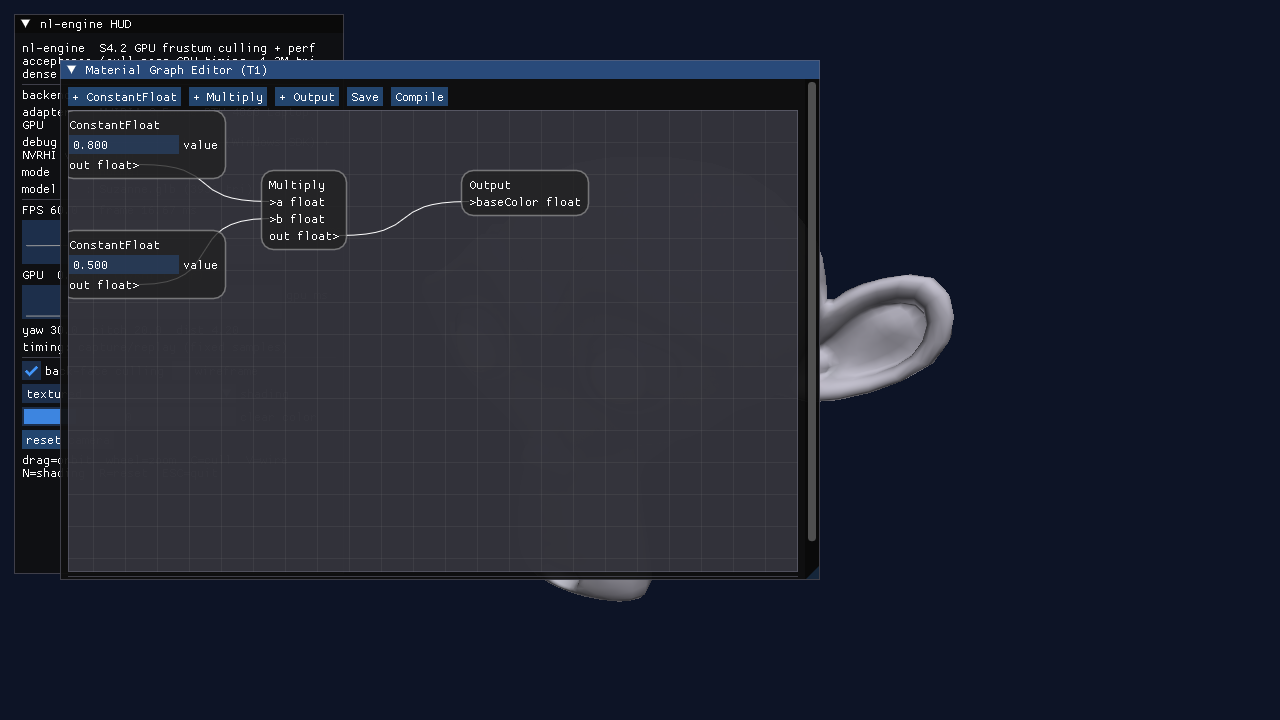
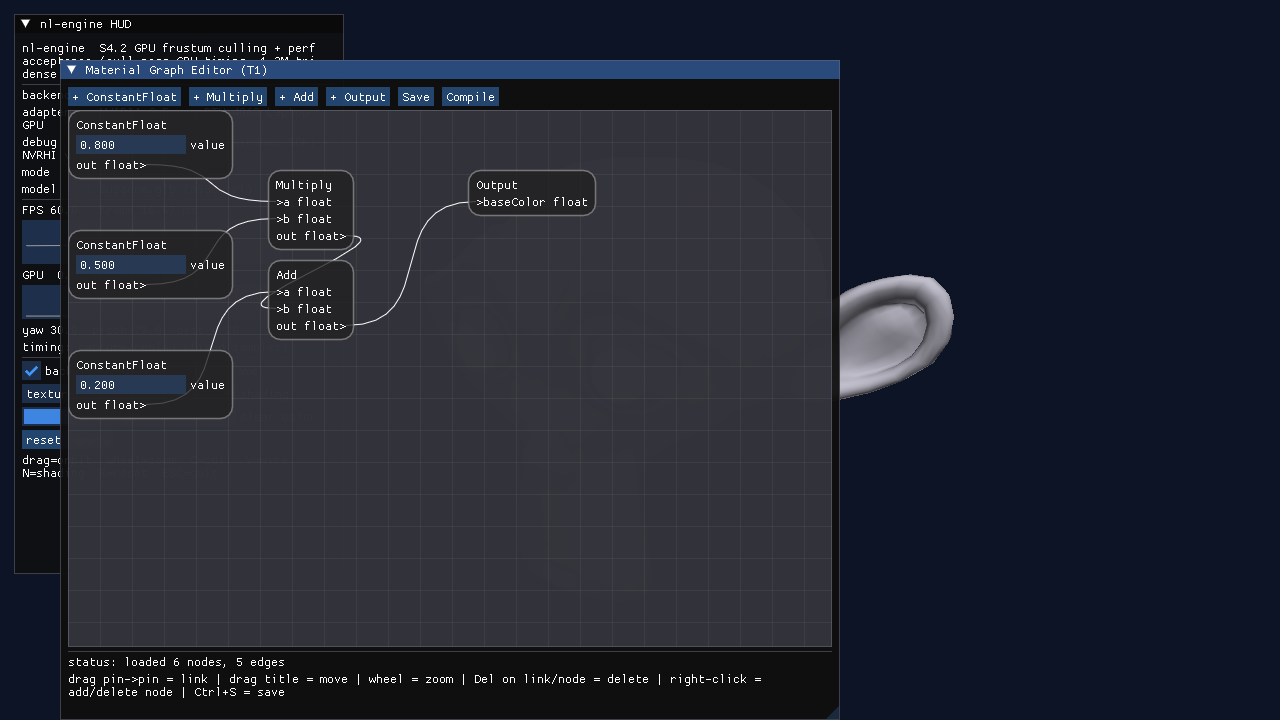
T1-M2: 编辑器细化——右键增删节点 / Del 级联删 / Ctrl+S / Add 节点全链
- renderer/src/editor.cpp: 右键空白加节点（ScreenToCanvas 落鼠标处）/ 右键节点
  删除 / Del 删节点（removeNode 级联清边）/ Ctrl+S 保存 / +Add 工具栏按钮；
  画布外层包 ImGui host child 预留底部状态条（库对 size<=0 回退占满剩余，
  负值预留不生效——坑已记 SIDE-TASKS）。
- core/material_graph/emit.cpp: 二值运算泛化（Multiply->*、Add->+），
  新运算节点登记一表即生效。
- 示例图接 Add（baseColor = 0.2 + 0.8*0.5 = 0.6，6 节点 5 边），b2 selftest
  断言同步 6/5；b3 check 即 Add 全链 slangc 双后端四路验收。
- ctest b2/b3/b4 3/3 全绿；Vulkan viewer 同步编译通过（双后端对称）。
- 证据 t1-editor-window.png 更新（NodeEditor.json 运行时状态会污染确定性
  截图，拍摄前删除）；SIDE-TASKS.md T1 进度登记 M1/M2。

diff --git a/renderer/src/editor.cpp b/renderer/src/editor.cpp
@@ -21,6 +21,7 @@ namespace {
 ImVec4 typeColor(const std::string& type) {
     if (type == "ConstantFloat") return ImVec4(0.30f, 0.50f, 0.70f, 1.0f);
     if (type == "Multiply")      return ImVec4(0.30f, 0.60f, 0.40f, 1.0f);
+    if (type == "Add")           return ImVec4(0.75f, 0.55f, 0.25f, 1.0f);
     if (type == "Output")        return ImVec4(0.70f, 0.35f, 0.35f, 1.0f);
     return ImVec4(0.35f, 0.35f, 0.45f, 1.0f);
 }
@@ -41,20 +42,22 @@ PinRef findPin(const nl::material_graph::MaterialGraph& g, int pinId) {
     return PinRef{};
 }
 
-// 按 B 路阶梯当前节点库：ConstantFloat(1 out) / Multiply(a,b in + out) / Output(baseColor in)。
-void addTypedNode(nl::material_graph::MaterialGraph& g, const std::string& type) {
+// 按 B 路阶梯当前节点库：ConstantFloat(1 out) / Multiply / Add（二值 float）/ Output(baseColor in)。
+// 返回新节点 id（供右键建节点时定位画布坐标）。
+int addTypedNode(nl::material_graph::MaterialGraph& g, const std::string& type) {
     using namespace nl::material_graph;
     int n = g.addNode(type);
     if (type == "ConstantFloat") {
         g.setProp(n, "value", "0.5");
         g.addPin(n, "out", ValueType::Float, true);
-    } else if (type == "Multiply") {
+    } else if (type == "Multiply" || type == "Add") {
         g.addPin(n, "a", ValueType::Float, false);
         g.addPin(n, "b", ValueType::Float, false);
         g.addPin(n, "out", ValueType::Float, true);
     } else if (type == "Output") {
         g.addPin(n, "baseColor", ValueType::Float, false);
     }
+    return n;
 }
 
 }  // namespace
@@ -71,14 +74,16 @@ struct NodeEditor::Impl {
     }
 
     void drawWindow() {
-        ImGui::SetNextWindowSize(ImVec2(760.0f, 520.0f), ImGuiCond_FirstUseEver);
+        ImGui::SetNextWindowSize(ImVec2(780.0f, 660.0f), ImGuiCond_FirstUseEver);
         ImGui::Begin("Material Graph Editor (T1)");
         ed::SetCurrentEditor(ctx);   // 整个窗口体都在编辑器作用域内（Save 要回收坐标）
 
-        // ---- 工具栏：加节点 / 保存 / 编译（T1 拆解 3/4/5 步）----
+        // ---- 工具栏：加节点 / 保存 / 编译（T1 拆解 3/4/5 步；Ctrl+S 亦可存）----
         if (ImGui::Button("+ ConstantFloat")) { addTypedNode(graph, "ConstantFloat"); status = "node added"; }
         ImGui::SameLine();
         if (ImGui::Button("+ Multiply")) { addTypedNode(graph, "Multiply"); status = "node added"; }
+        ImGui::SameLine();
+        if (ImGui::Button("+ Add")) { addTypedNode(graph, "Add"); status = "node added"; }
         ImGui::SameLine();
         if (ImGui::Button("+ Output")) { addTypedNode(graph, "Output"); status = "node added"; }
         ImGui::SameLine();
@@ -89,9 +94,16 @@ struct NodeEditor::Impl {
             bool ok = nl::material_graph::compileCheck(graph, &rep);
             status = ok ? ("compile OK: " + rep) : ("compile FAIL: " + rep);
         }
+        if (ImGui::IsWindowFocused(ImGuiFocusedFlags_RootAndChildWindows)
+            && ImGui::IsKeyChordPressed(ImGuiMod_Ctrl | ImGuiKey_S)) {
+            save();
+        }
 
-        // ---- 节点画布 ----
-        ed::Begin("canvas", ImVec2(0.0f, 0.0f));
+        // ---- 节点画布（host child 预留底部 separator + status + 提示三行；库对
+        //      size<=0 的处理是"占满剩余"，负值预留不生效，必须外层包 child）----
+        const float bottomBarH = ImGui::GetTextLineHeightWithSpacing() * 3.0f + 14.0f;
+        ImGui::BeginChild("canvas_host", ImVec2(0.0f, -bottomBarH));
+        ed::Begin("canvas");
         for (const auto& n : graph.nodes()) {
             ed::BeginNode(static_cast<std::uintptr_t>(n.id));
             ImGui::PushStyleColor(ImGuiCol_Header, typeColor(n.type));
@@ -134,7 +146,31 @@ struct NodeEditor::Impl {
         }
         if (graph.nodes().empty())
             ImGui::TextUnformatted("(empty graph) - use toolbar to add nodes");
+
+        // ---- 右键菜单：空白处 = 加节点（落在鼠标处），节点上 = 删除 ----
+        const ed::NodeId hovered = ed::GetHoveredNode();
+        if (ImGui::IsMouseReleased(1))
+            ImGui::OpenPopup(hovered ? "node_menu" : "canvas_menu");
+        if (ImGui::BeginPopup("canvas_menu")) {
+            const ImVec2 at = ed::ScreenToCanvas(ImGui::GetMousePosOnOpeningCurrentPopup());
+            const char* types[] = {"ConstantFloat", "Multiply", "Add", "Output"};
+            for (const char* t : types)
+                if (ImGui::MenuItem(t)) {
+                    const int id = addTypedNode(graph, t);
+                    ed::SetNodePosition(static_cast<std::uintptr_t>(id), at);
+                    status = "node added";
+                }
+            ImGui::EndPopup();
+        }
+        if (ImGui::BeginPopup("node_menu")) {
+            if (ImGui::MenuItem("Delete node")) {
+                graph.removeNode(static_cast<int>(hovered.Get()));
+                status = "node deleted (edges cascaded)";
+            }
+            ImGui::EndPopup();
+        }
         ed::End();
+        ImGui::EndChild();
 
         // ---- 连线创建：拖拽引脚 -> 校验（存在/一进一出/类型一致）-> connect ----
         if (ed::BeginCreate()) {
@@ -168,7 +204,7 @@ struct NodeEditor::Impl {
         }
         ed::EndCreate();
 
-        // ---- 连线删除 ----
+        // ---- 删除：选中连线 Del 删除；选中节点 Del 级联删节点及其连线 ----
         if (ed::BeginDelete()) {
             ed::LinkId deleted;
             while (ed::QueryDeletedLink(&deleted)) {
@@ -177,12 +213,19 @@ struct NodeEditor::Impl {
                     status = "link deleted";
                 }
             }
+            ed::NodeId deletedNode;
+            while (ed::QueryDeletedNode(&deletedNode)) {
+                if (ed::AcceptDeletedItem()) {
+                    graph.removeNode(static_cast<int>(deletedNode.Get()));
+                    status = "node deleted (edges cascaded)";
+                }
+            }
         }
         ed::EndDelete();
 
         ImGui::Separator();
         ImGui::TextWrapped("status: %s", status.c_str());
-        ImGui::TextWrapped("drag pin->pin = link | drag title = move | wheel = zoom | Del on link = delete");
+        ImGui::TextWrapped("drag pin->pin = link | drag title = move | wheel = zoom | Del on link/node = delete | right-click = add/delete node | Ctrl+S = save");
 
         ed::SetCurrentEditor(nullptr);
         ImGui::End();

diff --git a/core/src/material_graph/emit.cpp b/core/src/material_graph/emit.cpp
@@ -43,26 +43,32 @@ std::string emitPinExpr(const MaterialGraph& g, int nodeId, int pinId,
         if (n->type == "ConstantFloat") {
             auto it = n->props.find("value");
             expr = toFloatLiteral(it != n->props.end() ? it->second : "");
-        } else if (n->type == "Multiply") {
-            // 找 a / b 两个输入引脚
-            int aPin = -1, bPin = -1;
-            for (const auto& pin : n->pins) {
-                if (!pin.isOutput) {
-                    if (aPin < 0) aPin = pin.id;
-                    else if (bPin < 0) bPin = pin.id;
-                }
-            }
-            // 上游表达式：从连到该输入引脚的边取
-            auto upstreamExpr = [&](int inPin) -> std::string {
-                for (const auto& e : g.edges()) {
-                    if (e.toNode == nodeId && e.toPin == inPin)
-                        return emitPinExpr(g, e.fromNode, e.fromPin, visited);
-                }
-                return "0.0f";
-            };
-            expr = "(" + upstreamExpr(aPin) + " * " + upstreamExpr(bPin) + ")";
         } else {
-            expr = "0.0f";   // 未知节点类型：占位（emitSlang 会在校验阶段报错）
+            // 二值运算节点：Multiply -> *、Add -> +（新运算节点在此表登记即可）。
+            const char* op = nullptr;
+            if (n->type == "Multiply") op = "*";
+            else if (n->type == "Add") op = "+";
+            if (op) {
+                int aPin = -1, bPin = -1;
+                for (const auto& pin : n->pins) {
+                    if (!pin.isOutput) {
+                        if (aPin < 0) aPin = pin.id;
+                        else if (bPin < 0) bPin = pin.id;
+                    }
+                }
+                // 上游表达式：从连到该输入引脚的边取
+                auto upstreamExpr = [&](int inPin) -> std::string {
+                    for (const auto& e : g.edges()) {
+                        if (e.toNode == nodeId && e.toPin == inPin)
+                            return emitPinExpr(g, e.fromNode, e.fromPin, visited);
+                    }
+                    return "0.0f";
+                };
+                expr = std::string("(") + upstreamExpr(aPin) + " " + op + " "
+                     + upstreamExpr(bPin) + ")";
+            } else {
+                expr = "0.0f";   // 未知节点类型：占位（emitSlang 会在校验阶段报错）
+            }
         }
         visited[key] = 1;
         return expr;

diff --git a/material-graph-tools/main.cpp b/material-graph-tools/main.cpp
@@ -52,9 +52,21 @@ nl::material_graph::MaterialGraph buildSample() {
     g.connect(nA, pA, nMul, pMulA);
     g.connect(nB, pB, nMul, pMulB);
 
+    // T1-M2：Add 节点入示例链（baseColor = 0.8*0.5 + 0.2 = 0.6），示范扩节点库全链。
+    int nC = g.addNode("ConstantFloat", 0.0f, 240.0f);
+    g.setProp(nC, "value", "0.2");
+    int pC = g.addPin(nC, "out", ValueType::Float, true);
+
+    int nAdd = g.addNode("Add", 200.0f, 150.0f);
+    int pAddA = g.addPin(nAdd, "a", ValueType::Float, false);
+    int pAddB = g.addPin(nAdd, "b", ValueType::Float, false);
+    int pAddO = g.addPin(nAdd, "out", ValueType::Float, true);
+    g.connect(nC, pC, nAdd, pAddA);
+    g.connect(nMul, pMulO, nAdd, pAddB);
+
     int nOut = g.addNode("Output", 400.0f, 60.0f);
     int pOutIn = g.addPin(nOut, "baseColor", ValueType::Float, false);
-    g.connect(nMul, pMulO, nOut, pOutIn);
+    g.connect(nAdd, pAddO, nOut, pOutIn);
     return g;
 }
 
@@ -415,8 +427,8 @@ int selftestGraph() {
     // 1) 构造 + validate 通过
     MaterialGraph g = buildSample();
     std::string err;
-    check(g.nodeCount() == 4, "expected 4 nodes");
-    check(g.edgeCount() == 3, "expected 3 edges");
+    check(g.nodeCount() == 6, "expected 6 nodes");   // T1-M2：示例链含 Add（2 常量 + Multiply + 常量 + Add + Output）
+    check(g.edgeCount() == 5, "expected 5 edges");
     check(g.validate(&err), "sample graph should validate");
 
     // 2) 序列化确定性：两次写出字节一致

diff --git a/docs/material-graph/SIDE-TASKS.md b/docs/material-graph/SIDE-TASKS.md
@@ -17,3 +17,6 @@
 - **验收形式**：A 类工具版交代——编辑器窗口截图 / 演示（拖节点 → 连线 → 改属性 → 重编译 OK 的完整操作序列），不进渲染回归总闸。
 - **排期建议**：不依赖 B5，随时可开；若与 B5 并行，注意工作线粘性——**新任务 = 同 worktree（`nl-engine-material-graph`）新工作线**，先合一波主干再开干（2026-11-08 用户拍板的合并惯例）。
 - **参考**：MaterialX Graph Editor（imgui-node-editor 用法权威）、UE MaterialEditor（信息架构：图区 + 属性细节面板 + 节点搜索，只读不抄）。
+- **进度**：**T1-M1 ✅**（2026-11-09，`2e60906`）——拆解 1~5 全部落地：`viewer --editor <file.mg>`（经 `HudFrame.editor` 挂入 hud 的 NewFrame..Render 区间，`editor=null` 路径零改动不碰基线）、画布拖拽（读写 `Node.x/y`）、引脚拖拽连线（方向/类型校验）、`ConstantFloat.value` 即时编辑、Save / Compile（`core/material_graph/compile.cpp` emit + slangc 四路）。双后端编译通过，证据 `t1-editor-window.png`。
+  **T1-M2 ✅**（2026-11-09）——右键空白加节点（落鼠标处）/ 右键节点删除 / Del 删节点（级联清边，`removeNode` 已有）/ Ctrl+S 快捷保存 / 新节点类型 **Add** 全链打通（emitter 二值运算泛化 → 编辑器 → 示例图 6 节点 5 边 → b2/b3/b4 ctest 覆盖，生成表达式 `0.2f + (0.8f * 0.5f)` 经 slangc 双后端四路编译）。坑：库对 `size<=0` 回退「占满剩余」，底部状态条须外层包 ImGui host child 预留；`NodeEditor.json` 运行时状态会污染确定性截图，拍摄前须删除。证据 `t1-editor-window.png`（已更新）。
+  剩余：拆解 6（预览视口，等 B5 / S7）。
